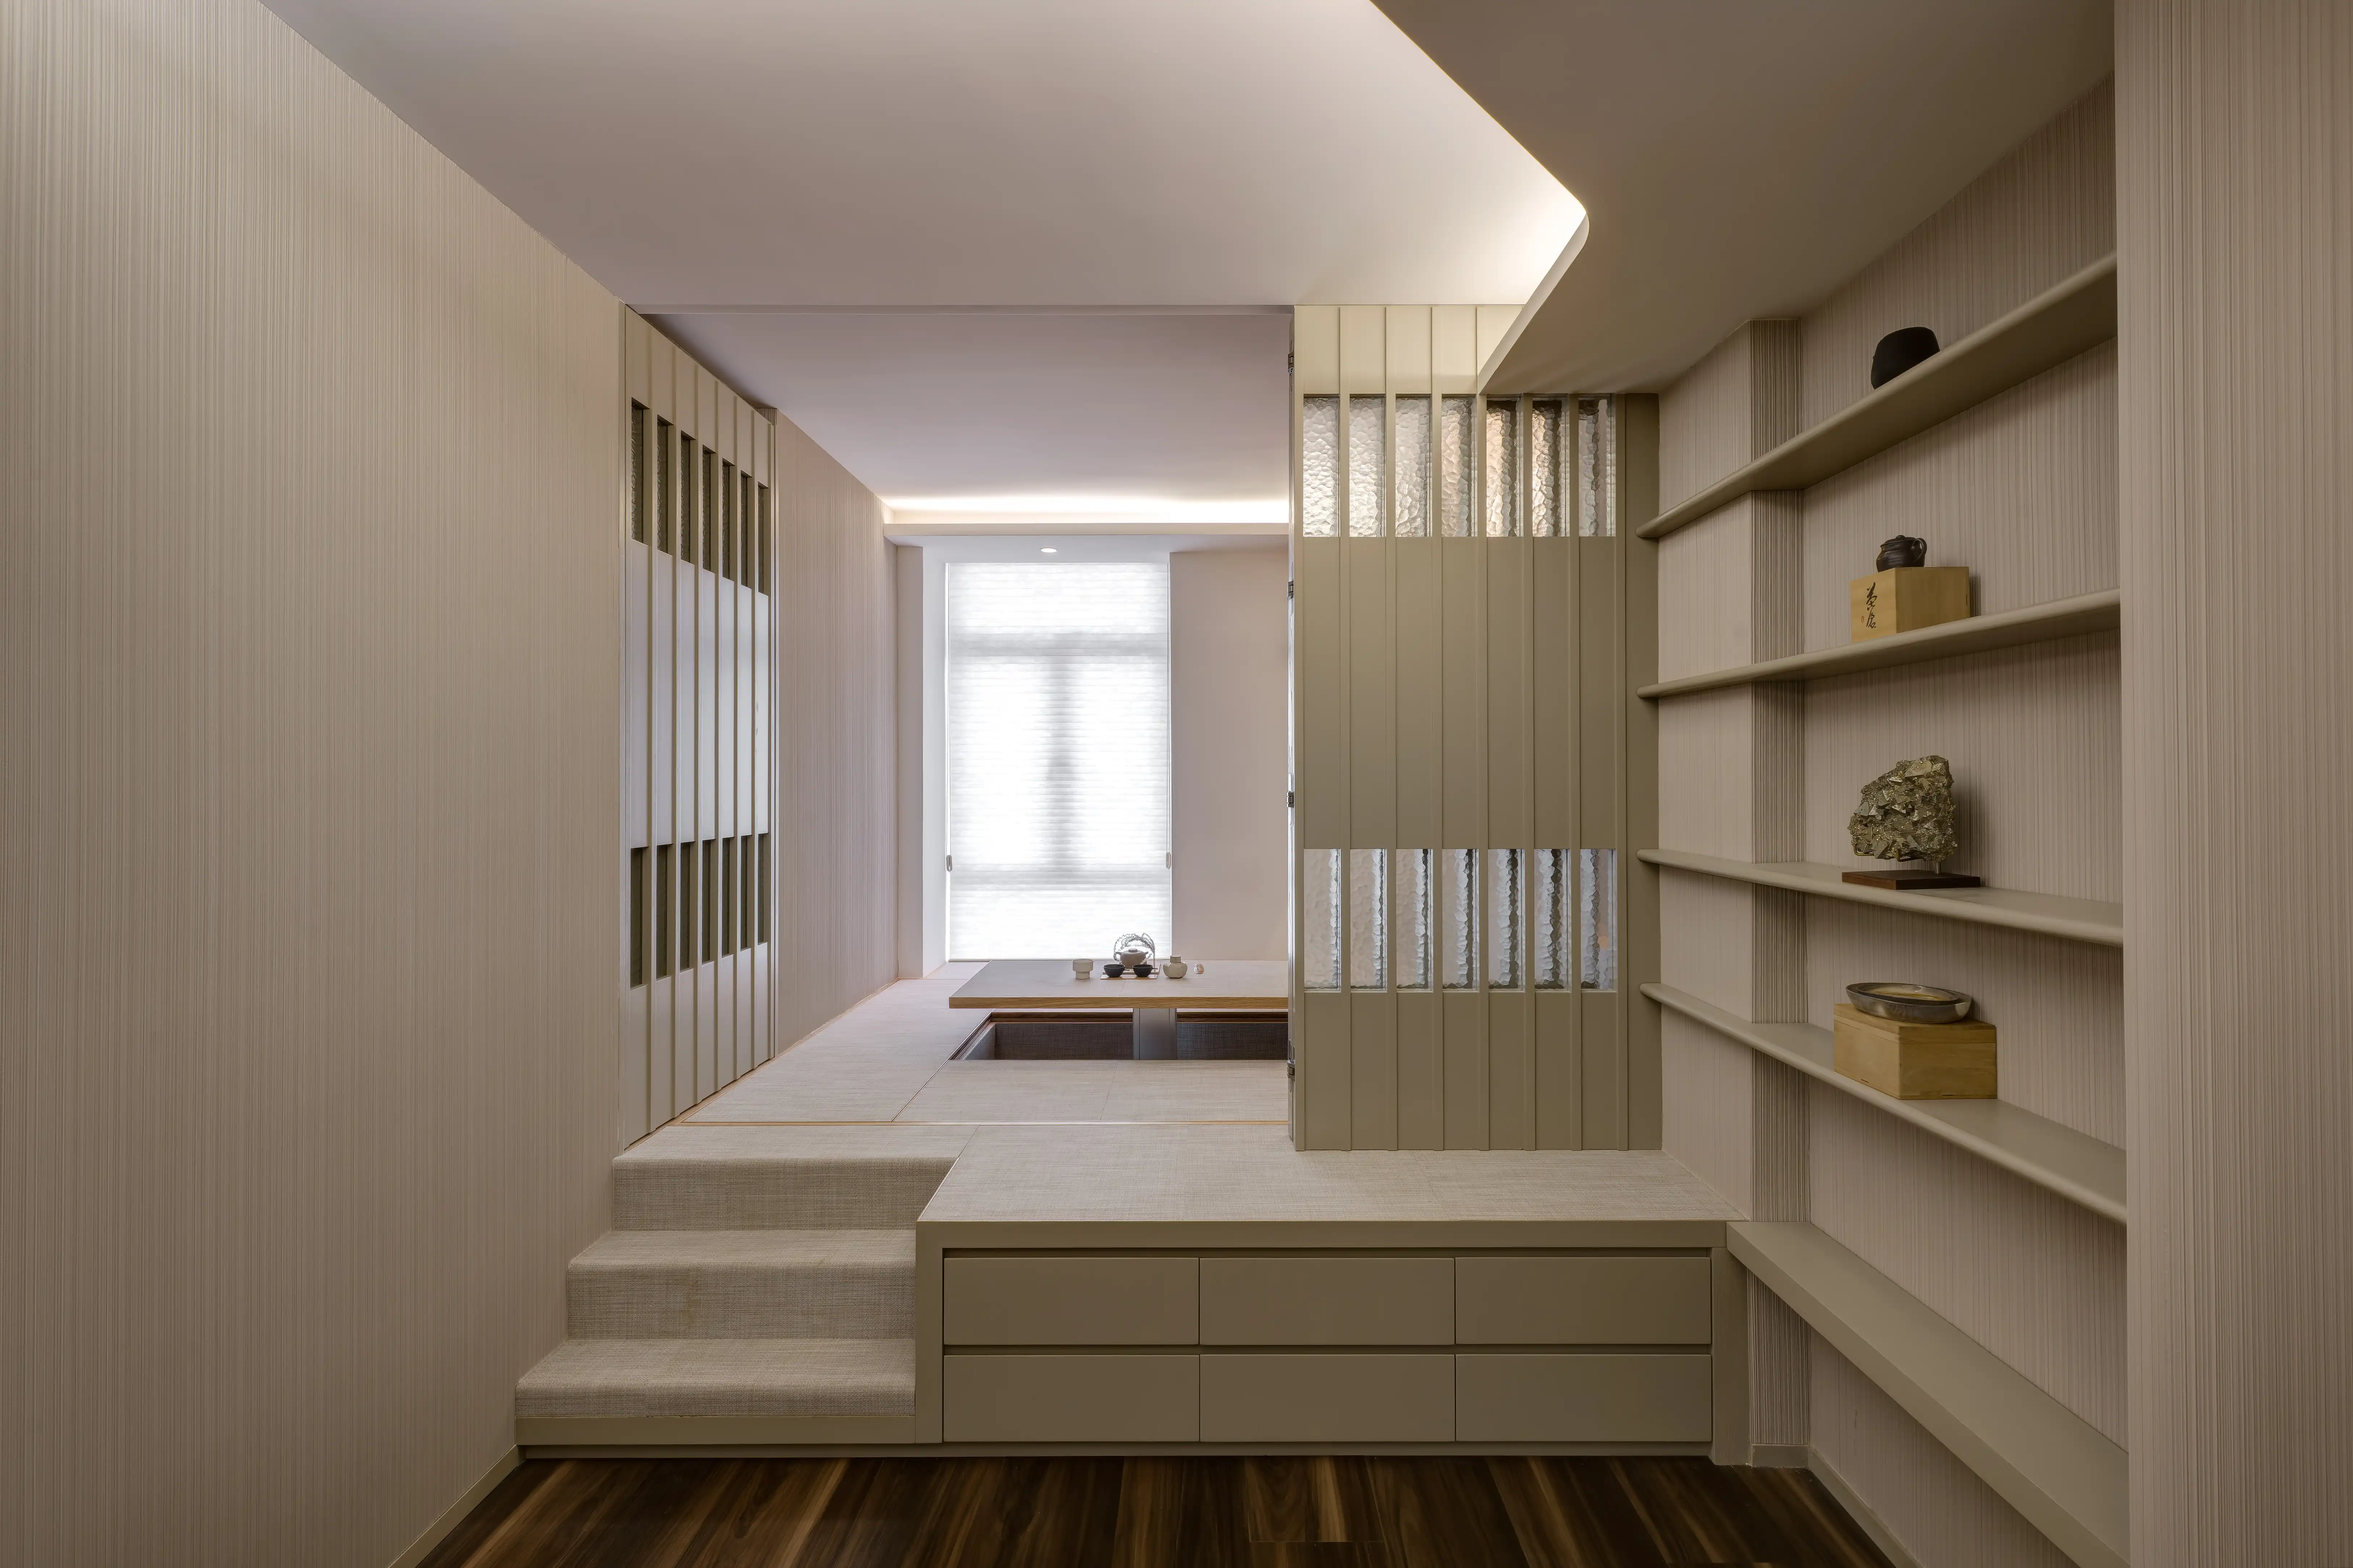
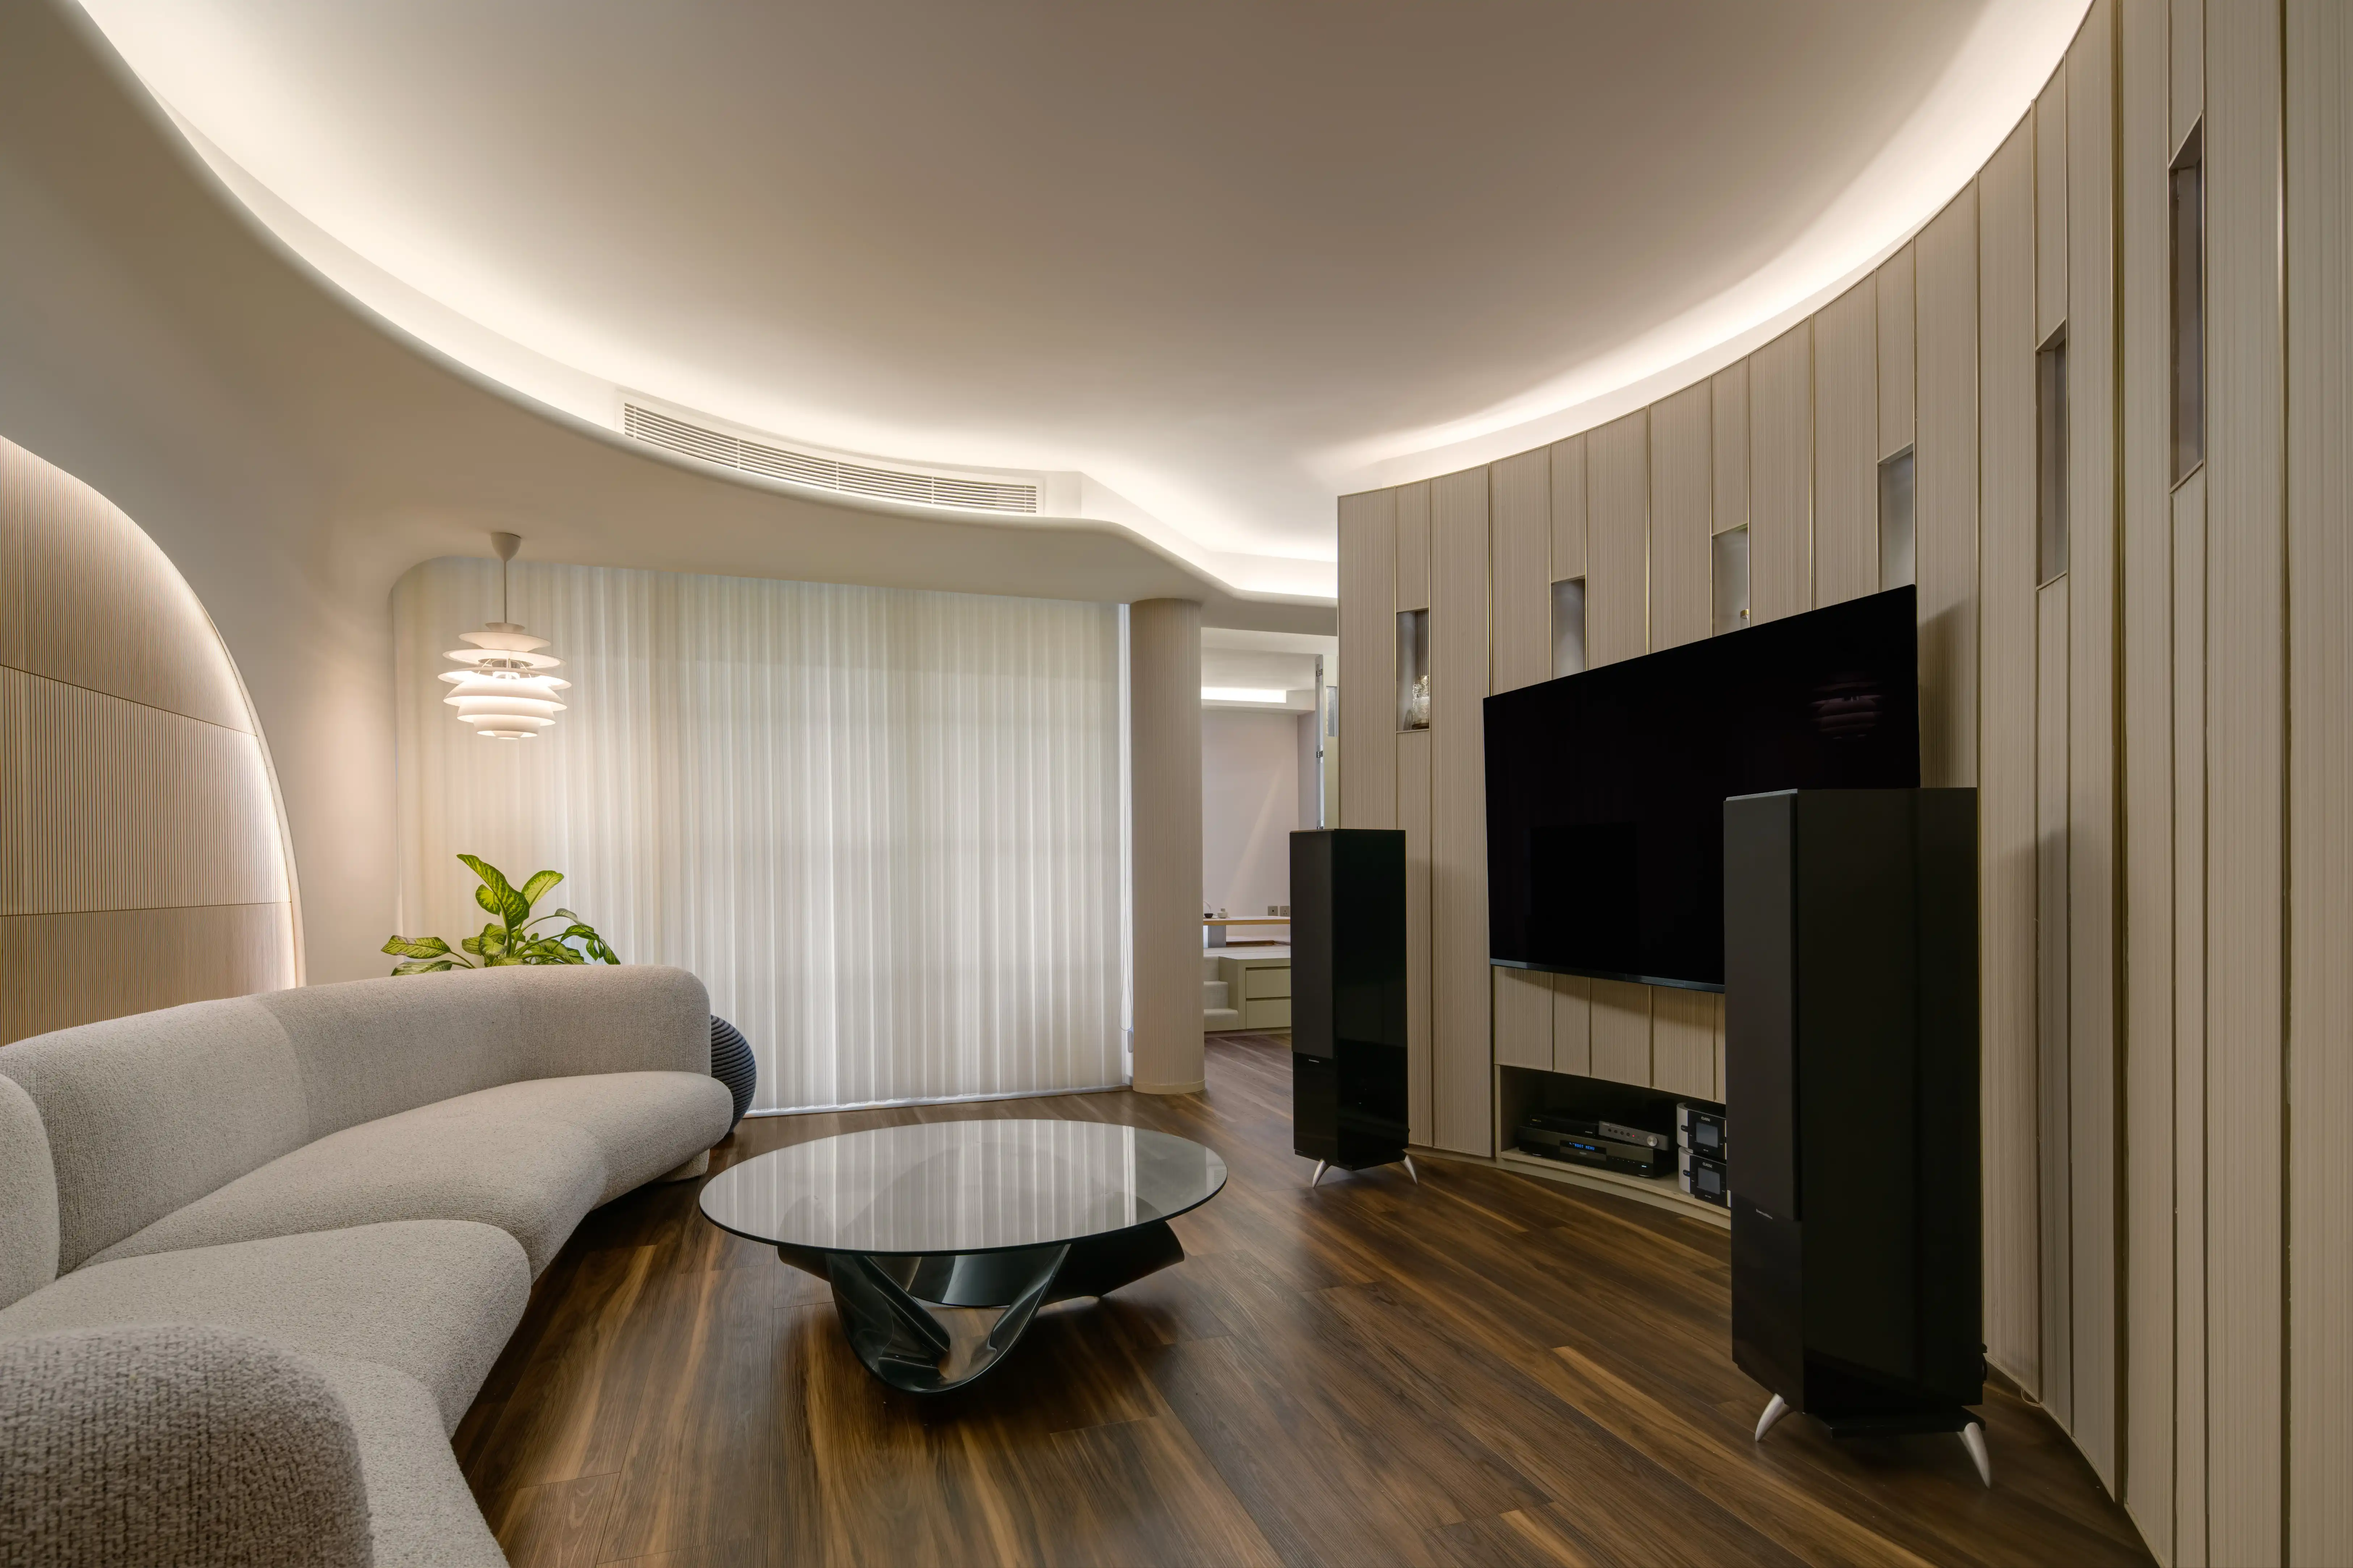
Update src/content/works/interior/taikooshing

diff --git a/src/content/works/interior/taikooshing.md b/src/content/works/interior/taikooshing.md
@@ -8,14 +8,25 @@ gallery:
   - image: '@assets/images/works/interior/taikooshing/gallery/2/image.webp'
   - image: '@assets/images/works/interior/taikooshing/gallery/3/image.webp'
   - image: '@assets/images/works/interior/taikooshing/gallery/4/image.webp'
-  - image: '@assets/images/works/interior/taikooshing/gallery/5/image.webp'
-  - image: '@assets/images/works/interior/taikooshing/gallery/6/image.webp'
 design: IDG concept
 location: 'Hong Kong '
 ---
-Comprehensive interior design for a Taikoo Shing residence focus on\
-creating a harmonious blend of modern aesthetics and functionality.\
-The project involves space planning, custom furniture design, lighting\
-design, and the integration of smart home technology to enhance daily\
-living. Special attention is given to maximizing space efficiency and\
-ensuring a cohesive, elegant look throughout the home.
+Comprehensive interior design for a Taikoo Shing residence focus on creating a harmonious blend of modern aesthetics and functionality. The project involves space planning, custom furniture design, lighting design, and the integration of smart home technology to enhance daily living. Special attention is given to maximizing space efficiency and ensuring a cohesive, elegant look throughout the home.
+
+#### **Design Highlights**
+
+* Smart storage solutions
+* Integrated lighting
+* Open-plan living areas
+
+#### **Materials and Techniques**
+
+* High-quality wood and metals
+* Energy-efficient lighting
+* Modern carpentry and finishing techniques
+
+#### **Sustainability and Environment**
+
+* Use of eco-friendly materials
+* Energy-saving appliances
+* Indoor plants for better air quality
